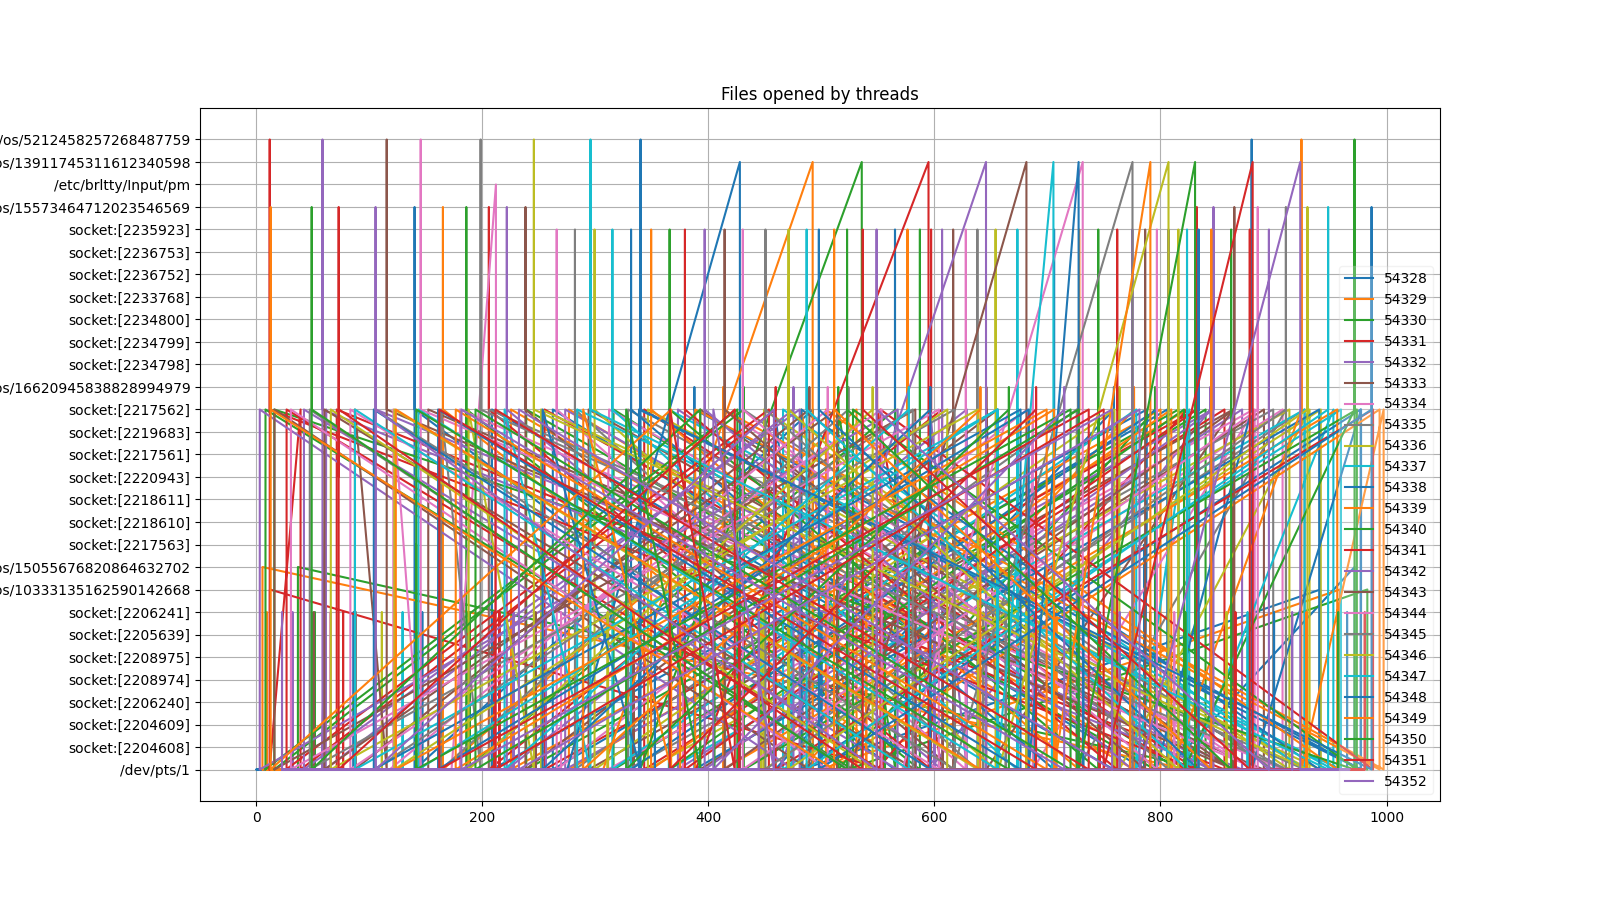
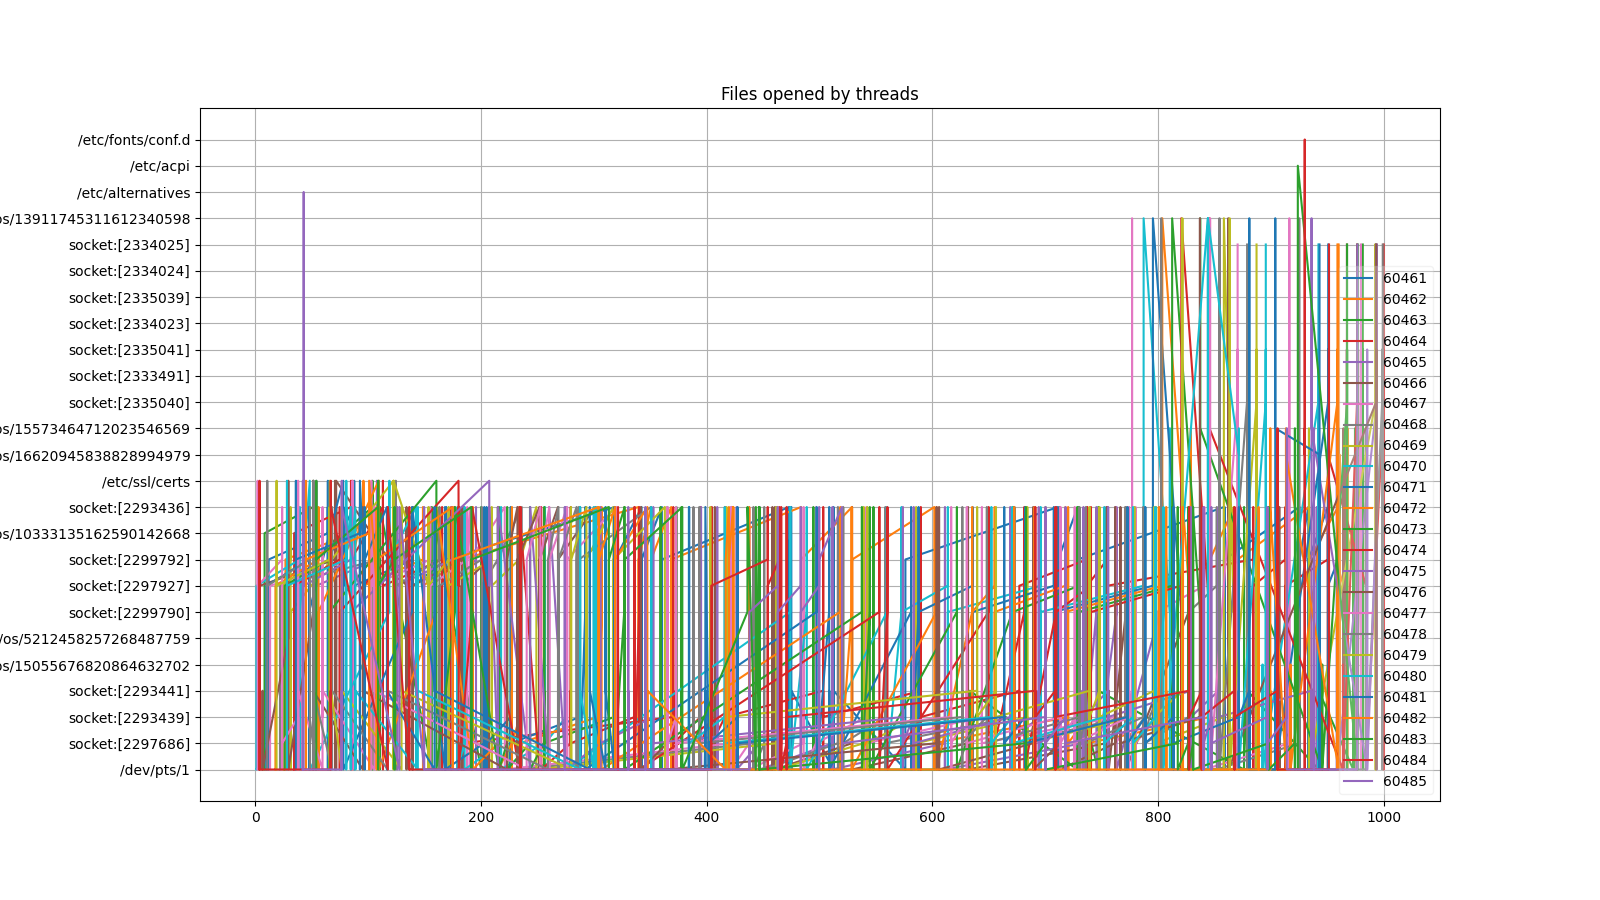
feat: regenerated fdstat.png; added process_map0

diff --git a/fdstatplotter.py b/fdstatplotter.py
@@ -5,7 +5,9 @@ from sys import stdin # to read from stdin
 def fdstat_plot( data ):
     plt.rcParams["figure.figsize"] = 16, 9
     plt.grid()
+
     for key in data.keys():
+        data[ key ][ 0 ].sort()
         plt.plot( data[ key ][ 0 ], data[ key ][ 1 ], label=key )
     plt.legend( loc='lower right', framealpha = 0.25 )
     plt.title( "Files opened by threads" )
